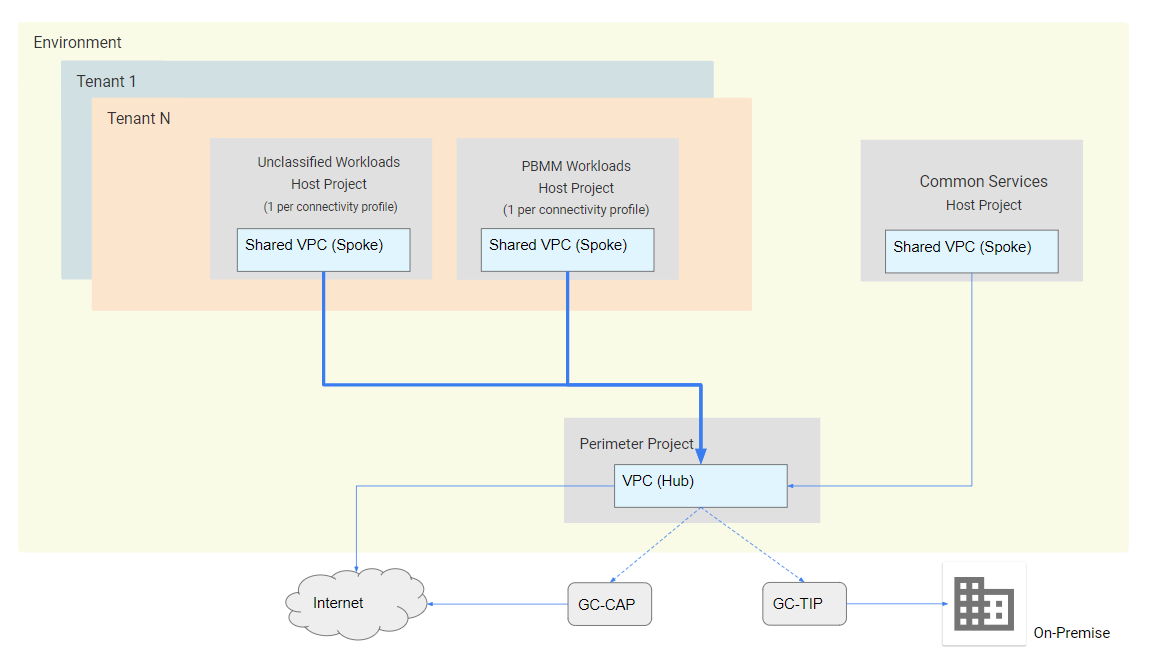
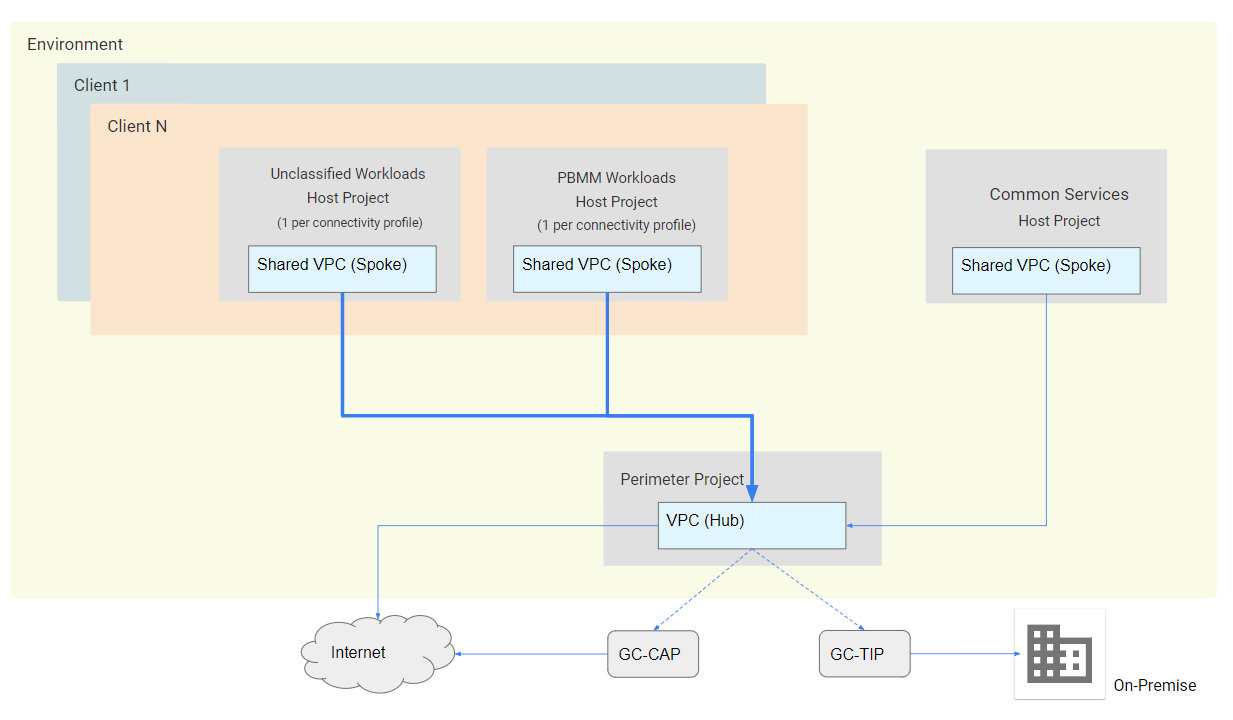
update gcp-documentation (#11)
* update gcp-documentation

* update Building_Using_Automation.md

* update Workload.md

* update gcp-documentation no 2

* update Changing.md and Repositories.md

* update Building_Using_Automation.md

* update Client and Application

* update gcp-documantation - no3

* feat: changed few images

---------

diff --git a/Architecture/Repository Structure.md b/Architecture/Repository Structure.md
@@ -22,9 +22,9 @@ The process to implement a code change goes like this:
 The git repos are organized in different categories:
 - `gcp-documentation` (this repo) contains documentation for the landing zone.
 - Deployment repos: two types exists, one to manage Config Sync repos, the other to store infrastructure configurations.
-    - `gcp-tier1-configsync` is where the initial `root-sync` object is pointing and is used to manage the root sync objects and versioning of the tier1 infrastructure in sandbox, dev, uat and prod.
+    - `gcp-tier1-configsync` is where the initial `root-sync` object is pointing and is used to manage the root sync objects and versioning of the tier1 infrastructure in experimentation, dev, uat and prod.
     - `gcp-tier1-infra` contains the landing zone configs for dev, uat and prod.
-    - `gcp-sandbox-tier1-infra` contains the landing zone configs for sandbox.
+    - `gcp-experimentation-tier1-infra` contains the landing zone configs for experimentation.
 - `gcp-tools` contains common scripts and pipeline templates used by repos above as a git submodule.
 - `gcp-blueprints-catalog` **private repo** contains SSC specific packages that are used to build a landing zone.
 
@@ -33,7 +33,7 @@ TODO: tier2 and tier3 repos
 ## Deployment Repos
 These repos have a common directory structure with slight variations. 
 
-Below is a brief explanation of key repo components.  Some directories include sub-directories for each environment it configures (sandbox, dev, uat, prod).  For simplicity, they will be expressed below as `<env_subdirs>`.
+Below is a brief explanation of key repo components.  Some directories include sub-directories for each environment it configures (experimentation, dev, uat, prod).  For simplicity, they will be expressed below as `<env_subdirs>`.
 
 - `repo root`:
     - `.azure-pipelines` or `.github`: pipelines YAML files.
@@ -62,7 +62,7 @@ To overcome this limitation and checkout a specific tag or commit SHA, run `modu
 The tools submodule contains a `hydrate.sh` script to hydrate the configs with `kpt`.  The script must be executed when any changes to `source-base` and/or `source-customization` are made.  It is configured to run as a pre-commit hook for local validation and also in a validation pipeline during PR creation (TODO: create pipeline).
 
 At a high level, the script will:
-1. For each environment (sandbox, dev, uat, prod), check if `source-customization/` contains that sub directory.  If so:
+1. For each environment (experimentation, dev, uat, prod), check if `source-customization/` contains that sub directory.  If so:
     - Create a `temp-workspace/<env>` directory to copy the `source-base/` and then copy `source-customization/<env>/`, this adds customization specific to that environment.
     - Run `kpt fn render` and remove local configs in `temp-workspace/<env>`.
     - Check if newly hydrated files in `temp-workspace/<env>` are different than `deploy/<env>`.  If so, copy them to `deploy/<env>`.

diff --git a/Onboarding/Client.md b/Onboarding/Client.md
@@ -1,0 +1,70 @@
+# Client Onboarding
+
+## Required Information
+
+1. Client's Name
+1. When creating the name of a client folder, it must adhere to a bilingual nomenclature and leverage the official abbreviation list of current Government of Canada departments, agencies, Crown Corporations and special operating agencies: [https://www.canada.ca/en/government/dept.html](https://www.canada.ca/en/government/dept.html).
+
+   For example, when creating a client folder to represent Shared Services Canada, employ both the official English and French abbreviation separated by a dash (e.g. ssc-spc).
+
+   ![folder](img/departments-and-agencies-en-ssc.png)
+
+   ![folder](img/departments-and-agencies-fr-spc.png)
+    
+   In order to uphold folder name requirements in the Google Cloud Console ([Creating and managing folders](https://cloud.google.com/resource-manager/docs/creating-managing-folders#:~:text=For%20example%2C%20to%20create%20folders,%2C%20spaces%2C%20hyphens%20and%20underscores)), avoid using accented characters in French.
+
+    ![folder](img/folder-structure-ssc-spc.png)
+
+1. User or Group that should be granted Folder Viewer role on the client's folder structure
+
+    ![folder](img/folder-structure-ssc-spc.png)
+
+
+### TODO: Future enhancement
+1. User or Group that should be granted `Essential Contacts` Admin role on the client's folder structure
+
+    ![folder](img/essential-contacts.png)
+
+1. User or Group that should be granted `Essential Contacts` Viewer role on the client's folder structure
+
+## Pre-requisite
+
+1. locally clone the landing zone repo for this environment
+1. create a branch from main
+
+
+
+## Add client folder(s) to the landing zone repository
+
+1. Move into source-base folder
+    ```
+    cd source-base
+    ```
+1. Get the hierarchy/client package
+    - Experimentation
+      ```
+      kpt pkg get https://github.com/GoogleCloudPlatform/pubsec-declarative-toolkit.git/solutions/hierarchy/client-experimentation@main ./landing-zone/hierarchy/clients/<client name>
+      ```
+
+    - DEV, UAT, PROD
+      ```
+      kpt pkg get https://github.com/GoogleCloudPlatform/pubsec-declarative-toolkit.git/solutions/hierarchy/client-env@main ./landing-zone/hierarchy/clients/<client name>
+      ```
+
+1. To modify any of the files in these packages (like setters.yaml) follow this generic guidance
+  
+    Refer to the `Add a Package` section of the [Changing.md](Changing.md)
+
+1. Generate hydrated files
+
+    Refer to the `Hydrate` section of the [Changing.md](Changing.md)
+
+1. Add changes to repository
+    
+    Refer to the `Publish` section of the [Changing.md](Changing.md)
+
+
+## Add client Tier2-ConfigSync (DEV, UAT, PROD only) (UNDER CONSTRUCTION)
+
+TODO: complete this steps
+

diff --git a/Onboarding/Application.md b/Onboarding/Application.md
@@ -1,12 +1,12 @@
-# Workload Onboarding
+# Application Onboarding
 
 ## Required Information
 ### Common
 
-1. Naming convention for project-id : `<tenant-code><environment-code><region-code><data-classification>`-`<project-owner>`-`<user defined string>`
+1. Naming convention for project-id : `<client-code><environment-code><region-code><data-classification>`-`<project-owner>`-`<user defined string>`
 
     *Notice the 2 "-" before and after `<project-owner>`
-    - tenant-code (2 characters)
+    - client-code (2 characters)
     - environment-code (1 character)
     - region-code (1 character) : "m" projects are always a global/multi-region resource
     - data-classification (1 character): "u" or "a" or "b"
@@ -15,7 +15,7 @@
     
 1. Billing Account ID to be associated with this project
 
-### Sandbox
+### Experimentation
 
 1. user, group or serviceAccount with editor role at project level
   
@@ -32,7 +32,7 @@
 1. Locally clone the landing zone repo for this environment
 1. Create a branch from main
 
-## Add tenant's workload to the landing zone repository
+## Add client's application to the landing zone repository
 
 1. Move into source-base folder
     ```
@@ -41,14 +41,14 @@
 1. Get the workload package
     
     *Some folders may need to be created beforehand like `<data classification>`
-    - Sandbox
+    - Experimentation
       ```
-      kpt pkg get https://github.com/GoogleCloudPlatform/pubsec-declarative-toolkit.git/solutions/project/project-sandbox@main ./landing-zone/hierarchy/Tenants/<tenant name>/Workloads/<project-id>
+      kpt pkg get https://github.com/GoogleCloudPlatform/pubsec-declarative-toolkit.git/solutions/project/project-experimentation@main ./landing-zone/hierarchy/clients/<client name>/applications/<project-id>
       ```
 
     - DEV, UAT, PROD
       ```
-      kpt pkg get https://github.com/GoogleCloudPlatform/pubsec-declarative-toolkit.git/solutions/project/project-sandbox@main ./landing-zone/hierarchy/Tenants/<tenant name>/Workloads/<data classification>/<project-id>
+      kpt pkg get https://github.com/GoogleCloudPlatform/pubsec-declarative-toolkit.git/solutions/project/project-experimentation@main ./landing-zone/hierarchy/clients/<client name>/applications/<data classification>/<project-id>
       ```
 
 1. To modify any of the files in this package (like setters.yaml) follow this generic guidance

diff --git a/Landing Zone Operations/Changing.md b/Landing Zone Operations/Changing.md
@@ -74,7 +74,7 @@ It will need to be customized for each environment.  This is a manual process, a
     # for example, 'landing-zone/org-policies/setters.yaml'
     export FILE_TO_CUSTOMIZE=''
 
-    for env_subdir in sandbox dev uat prod; do
+    for env_subdir in experimentation dev uat prod; do
         # check if env. folder exists in source-customization
         if [ -d "../source-customization/${env_subdir}" ]; then
             # copy the file, with no overwrite, keeping full path
@@ -85,8 +85,8 @@ It will need to be customized for each environment.  This is a manual process, a
 1. Ensure all files copied under `source-customization` have been edited to reflect each environment.
     > ***Advanced customization tip.***<br>
     In some cases, certain resource YAML files may need to be edited for some environments, but not others.  This should be avoided as much as possible because it  complicates the update process.<br>
-    For example, to completely remove a specific org policy from sandbox:<br>
-        - Copy that org policy's YAML file in the sandbox customization folder, ***making sure to maintain the same directory structure***.<br> 
+    For example, to completely remove a specific org policy from experimentation:<br>
+        - Copy that org policy's YAML file in the experimentation customization folder, ***making sure to maintain the same directory structure***.<br> 
         - Put the entire file in a comment block.<br>
         - The hydration process will then ignore this commented resource definition, effectively removing it.
 1. Review all customizations with VSCode's built-in Source Control viewer or by running `git diff`.  If satisfied, proceed to [Step 3 - Hydrate](#step-3---hydrate).
@@ -176,7 +176,7 @@ Follow these steps to remove a package:
     ```
 1. Remove the customization for each environment:
     ```bash
-    for env_subdir in sandbox dev uat prod; do
+    for env_subdir in experimentation dev uat prod; do
         # check if env. folder exists in source-customization
         if [ -d "${env_subdir}/${PKG_PATH}" ]; then
             rm --recursive "${env_subdir}/${PKG_PATH}"

diff --git a/Landing Zone Operations/Repositories.md b/Landing Zone Operations/Repositories.md
@@ -7,7 +7,7 @@ SSC implements a [Gitops-Git](https://github.com/GoogleCloudPlatform/pubsec-decl
 As illustrated in the [Gitops](../Architecture/Repository%20Structure.md#Gitops) diagram, the ConfigSync operator requires an Infra repo and a ConfigSync repo.
 
 ## Create New Deployment Repo
-Deployment repos are initially created the same way, from cloning [gcp-repo-template](https://github.com/ssc-spc-ccoe-cei/gcp-repo-template.git).  These steps will need to be repeated for each repo name.  For example, `gcp-sandbox-tier1-infra`, `gcp-tier1-configsync`, etc.
+Deployment repos are initially created the same way, from cloning [gcp-repo-template](https://github.com/ssc-spc-ccoe-cei/gcp-repo-template.git).  These steps will need to be repeated for each repo name.  For example, `gcp-experimentation-tier1-infra`, `gcp-tier1-configsync`, etc.
 
 The git credentials will need to be appropriately set for your AzDO org.
 
@@ -60,7 +60,7 @@ The git credentials will need to be appropriately set for your AzDO org.
         rm --recursive '.azure-pipelines'
         ```
 1. For **`Infra`** repos, remove the environment sub-directories which are not required. **Never delete '.gitkeep' files in folders that remain.**
-    - If the repo is for sandbox. For example, `gcp-sandbox-tier1-infra`:
+    - If the repo is for experimentation. For example, `gcp-experimentation-tier1-infra`:
         ```bash
         # remove the 'dev', 'uat' and 'prod' sub-directories
         for env_subdir in dev uat prod; do
@@ -70,8 +70,8 @@ The git credentials will need to be appropriately set for your AzDO org.
         ```
     - If the repo is for dev, uat and prod. For example, `gcp-tier1-infra`:
         ```bash
-        # remove the 'sandbox' sub-directory
-        for env_subdir in sandbox; do
+        # remove the 'experimentation' sub-directory
+        for env_subdir in experimentation; do
             rm --recursive "deploy/${env_subdir}/"
             rm --recursive "source-customization/${env_subdir}/"
         done

diff --git a/Landing Zone Operations/Building_Using_Automation.md b/Landing Zone Operations/Building_Using_Automation.md
@@ -18,7 +18,7 @@ As illustrated in the [Gitops](../Architecture/Repository%20Structure.md#Gitops)
 
 The steps assume these repos have already been created by following the "Create New Deployment Repo" section in [Repositories.md](./Repositories.md):
 - One of the two infra repos:
-    - `gcp-sandbox-tier1-infra`: if building a sandbox landing-zone.
+    - `gcp-experimentation-tier1-infra`: if building a experimentation landing-zone.
     - `gcp-tier1-infra`: if building a dev, uat or prod landing-zone.
 - `gcp-tier1-configsync`: to identify which git revision of `tier1-infra` the Config Sync operator should observe.
 
@@ -31,9 +31,9 @@ The automated script creates a project, the FW settings, a Cloud router, a Cloud
 The script requires a `.env` file to deploy the environment.
 
 1. Start a new change for your `tier1-infra` repo, follow the "Step 1 - Setup" section of [Changing.md](./Changing.md).
-    - Sandbox
+    - Experimentation
 
-        repo name = `gcp-sandbox-tier1-infra`
+        repo name = `gcp-experimentation-tier1-infra`
     - DEV, UAT, PROD
 
         repo name = `gcp-tier1-infra`
@@ -92,8 +92,8 @@ Follow step 2A "Add a Package" of [Changing.md](./Changing.md) to add each of th
         ```bash
         export REPO_URI='https://github.com/GoogleCloudPlatform/pubsec-declarative-toolkit.git'
 
-        # for sandbox
-        export PKG_PATH='solutions/hierarchy/core-sandbox'
+        # for experimentation
+        export PKG_PATH='solutions/hierarchy/core-experimentation'
         # OR
         # for dev, uat, prod
         export PKG_PATH='solutions/hierarchy/core-env'
@@ -138,7 +138,7 @@ Follow step 2A "Add a Package" of [Changing.md](./Changing.md) to add each of th
         ```bash
         export FILE_TO_CUSTOMIZE='landing-zone/org-policies/setters.yaml'
         ```
-        For sandbox, you may also want to remove some org policies.
+        For experimentation, you may also want to remove some org policies.
     
 1. The logging package:
     

diff --git a/Landing Zone Operations/Building.md b/Landing Zone Operations/Building.md
@@ -32,16 +32,16 @@ As you saw in the [Gitops](../Architecture/Repository%20Structure.md#Gitops) dia
 ### Infra repo
 This section will implement the Infra repo
 1. Create a new `tier1-infra` repo in your Azure Devops project
-    - Sandbox
+    - Experimentation
           
-        repo name = `gcp-sandbox-tier1-infra`
+        repo name = `gcp-experimentation-tier1-infra`
     - DEV, UAT, PROD
 
         repo name = `gcp-tier1-infra`
 1. Clone locally the `gcp-repo-template` in order to build the new `tier1-infra` repo
-    - Sandbox
+    - Experimentation
       ```bash
-      git clone https://github.com/ssc-spc-ccoe-cei/gcp-repo-template.git gcp-sandbox-tier1-infra
+      git clone https://github.com/ssc-spc-ccoe-cei/gcp-repo-template.git gcp-experimentation-tier1-infra
       ```
     
     - DEV, UAT, PROD
@@ -49,9 +49,9 @@ This section will implement the Infra repo
         git clone https://github.com/ssc-spc-ccoe-cei/gcp-repo-template.git gcp-tier1-infra
         ```
 1. Move into the new folder corresponding to that repo
-    - Sandbox
+    - Experimentation
         ```bash
-        cd gcp-sandbox-tier1-infra
+        cd gcp-experimentation-tier1-infra
         ```
     - DEV, UAT, PROD
         ```bash
@@ -178,7 +178,7 @@ Now let's deploy that first root-sync that will make the magic happen and get yo
       git:
         repo: <REPO_URL> # This is the url to your gcp-tier1-configsync repo
         branch: main
-        dir: deploy/<env> # env should be replaced by sandbox or dev or uat or prod depending on what landing zone you are building
+        dir: deploy/<env> # env should be replaced by experimentation or dev or uat or prod depending on what landing zone you are building
         revision: HEAD
         auth: token
         secretRef:

diff --git a/Onboarding/Admin.md b/Onboarding/Admin.md
@@ -2,7 +2,7 @@
 
 ## Pre-requisite
 
-1. locally clone the sandbox landing zone repo
+1. locally clone the experimentation landing zone repo
 1. create a branch of main
 
 ## Add admin folder(s) to the landing zone repository
@@ -11,9 +11,9 @@
     ```
     cd source-base
     ```
-1. get the hierarchy/admin-sandbox package
+1. get the hierarchy/admin-experimentation package
       ```
-      kpt pkg get https://github.com/GoogleCloudPlatform/pubsec-declarative-toolkit.git/solutions/hierarchy/admin-sandbox@main ./landing-zone/hierarchy/Testing/Admins/<admin name>
+      kpt pkg get https://github.com/GoogleCloudPlatform/pubsec-declarative-toolkit.git/solutions/hierarchy/admin-experimentation@main ./landing-zone/hierarchy/tests/admins/<admin name>
       ```
 1. To modify any of the files in this package (like setters.yaml) follow this generic guidance
   

diff --git a/Developer/Guide.md b/Developer/Guide.md
@@ -80,7 +80,7 @@ TODO: update diagram to reflect experimentation
   - Cloud NAT
   - DNS logging policy
 
-  ![sandbox networking](img/sandbox-networking.png)
+  ![experimentation networking](img/experimentation-networking.png)
 
 ## DEV, UAT and PROD (UNDER CONSTRUCTION)
 
@@ -124,7 +124,7 @@ TODO: provide an example
 
 ### Repositories naming convention
 
-The diagram below describes the naming convention for repositories and uses NRCan, as a tenant, to provide examples.
+The diagram below describes the naming convention for repositories and uses na, as a client, to provide examples.
 
 ![naming](img/naming-repos.png)
 
